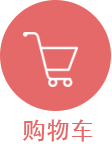
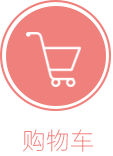
dd

Changed region(s): [[0.0, 0.0, 0.9911, 0.7778], [0.1875, 0.1944, 0.7232, 0.6111], [0.1875, 0.8056, 0.8304, 1.0]]

diff --git a/puuman2/ViewAndController/Shop/ShopSortSectionView.m b/puuman2/ViewAndController/Shop/ShopSortSectionView.m
@@ -24,17 +24,17 @@
 - (void)initialization
 {
     priceBtn = [[AFSelecedTextImgButton alloc] initWithFrame:CGRectMake(0, 0, 64, 96)];
-    [priceBtn setSelectedImg:[UIImage imageNamed:@"btn_rec1_shop"] andUnselectedImg:[UIImage imageNamed:@"btn_rec2_shop"]];
+    [priceBtn setSelectedImg:[UIImage imageNamed:@"btn_price_shop1.png"] andUnselectedImg:[UIImage imageNamed:@"btn_price_shop.png"]];
     [priceBtn addTarget:self action:@selector(priceBtnPressed) forControlEvents:UIControlEventTouchUpInside];
     [self addSubview:priceBtn];
     
     heatBtn = [[AFSelecedTextImgButton alloc] initWithFrame:CGRectMake(0, 96, 64, 96)];
-    [heatBtn setSelectedImg:[UIImage imageNamed:@"btn_all1_shop.png"] andUnselectedImg:[UIImage imageNamed:@"btn_all2_shop.png"]];
+    [heatBtn setSelectedImg:[UIImage imageNamed:@"btn_heat_shop1.png"] andUnselectedImg:[UIImage imageNamed:@"btn_heat_shop.png"]];
     [heatBtn addTarget:self action:@selector(heatBtnPressed) forControlEvents:UIControlEventTouchUpInside];
     [self addSubview:heatBtn];
     
     timeBtn = [[AFSelecedTextImgButton alloc] initWithFrame:CGRectMake(0, 96*2, 64, 96)];
-    [timeBtn setSelectedImg:[UIImage imageNamed:@"btn_rec1_shop"] andUnselectedImg:[UIImage imageNamed:@"btn_rec2_shop"]];
+    [timeBtn setSelectedImg:[UIImage imageNamed:@"btn_time_shop1.png"] andUnselectedImg:[UIImage imageNamed:@"btn_time_shop.png"]];
     [timeBtn addTarget:self action:@selector(timeBtnPressed) forControlEvents:UIControlEventTouchUpInside];
     [self addSubview:timeBtn];
     [self priceBtnPressed];

diff --git a/puuman2/ViewAndController/Shop/ShopViewController.m b/puuman2/ViewAndController/Shop/ShopViewController.m
@@ -126,7 +126,7 @@ static ShopViewController * instance;
     
     contentShop = [[ShopContentView alloc] initWithFrame:CGRectMake(80, 80, 0, 0)];
     [self.view addSubview:contentShop];
-    cartBtn  = [[UIButton alloc] initWithFrame:CGRectMake(0, 0, 56, 72)];
+    cartBtn  = [[UIButton alloc] initWithFrame:CGRectMake(0, 0, 56, 78)];
     [cartBtn setImage:[UIImage imageNamed:@"btn_cart_shop.png"] forState:UIControlStateNormal];
     [cartBtn addTarget:self action:@selector(showCart) forControlEvents:UIControlEventTouchUpInside];
     [self.view addSubview:cartBtn];
@@ -154,7 +154,7 @@ static ShopViewController * instance;
     [bg_topImageView setImage:[UIImage imageNamed:@"paper_top_shop.png"]];
     [bg_rightImageView setFrame:CGRectMake(688, 80, 64, 944)];
     [bg_rightImageView setImage:[UIImage imageNamed:@"paper_right_shop.png"]];
-    SetViewLeftUp(sectionView, 688, 80);
+    SetViewLeftUp(sectionView, 688, 100);
     SetViewLeftUp(searchBtn, 464, 28);
     SetViewLeftUp(searchView, 288, 28);
     SetViewLeftUp(cartBtn, 680, 678);
@@ -171,7 +171,7 @@ static ShopViewController * instance;
     [bg_rightImageView setFrame:CGRectMake(944, 80, 64, 688)];
     [bg_rightImageView setImage:[UIImage imageNamed:@"paper_right_h_shop.png"]];
   
-    SetViewLeftUp(sectionView, 944, 80);
+    SetViewLeftUp(sectionView, 944, 100);
 
     SetViewLeftUp(searchBtn, 592, 28);
     SetViewLeftUp(searchView, 416, 28);

diff --git a/puuman2/ViewAndController/MainTabBar/BabyInfo/BabyView.m b/puuman2/ViewAndController/MainTabBar/BabyInfo/BabyView.m
@@ -63,7 +63,7 @@
     [info_sexIcon setBackgroundColor:[UIColor clearColor]];
     [titleInfoView addSubview:info_sexIcon];
     
-    info_name = [[UILabel alloc] initWithFrame:CGRectMake(256, 58, 65, 25)];
+    info_name = [[UILabel alloc] initWithFrame:CGRectMake(256, 58, 144, 25)];
     [info_name setTextAlignment:NSTextAlignmentLeft];
     [info_name setTextColor:PMColor6];
     [info_name setFont:PMFont1];
@@ -71,7 +71,7 @@
     [info_name setBackgroundColor:[UIColor clearColor]];
     [titleInfoView addSubview:info_name];
     
-    info_age= [[UILabel alloc] initWithFrame:CGRectMake(325, 64, 110, 21)];
+    info_age= [[UILabel alloc] initWithFrame:CGRectMake(405, 64, 110, 21)];
     [info_age setTextAlignment:NSTextAlignmentLeft];
     [info_age setTextColor:PMColor1];
     [info_age setFont:PMFont2];
@@ -79,7 +79,7 @@
     [info_age setBackgroundColor:[UIColor clearColor]];
     [titleInfoView addSubview:info_age];
     if ([[[UserInfo sharedUserInfo] babyInfo] WhetherBirth]) {
-        info_birthday = [[UILabel alloc] initWithFrame:CGRectMake(436, 64, 200, 21)];
+        info_birthday = [[UILabel alloc] initWithFrame:CGRectMake(520, 64, 130, 21)];
         [info_birthday setTextAlignment:NSTextAlignmentLeft];
         [info_birthday setTextColor:PMColor3];
         [info_birthday setFont:PMFont2];

diff --git a/puuman2/ViewAndController/MainTabBar/MainTabBarController.m b/puuman2/ViewAndController/MainTabBar/MainTabBarController.m
@@ -374,7 +374,7 @@ static MBProgressHUD *hud;
     }
     
     if (babyShowBtn) {
-        SetViewLeftUp(babyShowBtn,768 -16 - 56, 1024);
+        SetViewLeftUp(babyShowBtn,768 -16 - 80, 1024);
         
     }
     
@@ -410,7 +410,7 @@ static MBProgressHUD *hud;
     }
     
     if (babyShowBtn) {
-        SetViewLeftUp(babyShowBtn,1024 -16 - 56, 768);
+        SetViewLeftUp(babyShowBtn,1024 -16 - 80, 768);
     }
 }
 
@@ -611,14 +611,14 @@ static MBProgressHUD *hud;
     [self.view addSubview:infoView];
     [infoView.layer setMasksToBounds:NO];
     if (!babyShowBtn) {
-        babyShowBtn = [[BabyShowButton alloc] initWithFrame:CGRectMake(1024 -16 - 56, 768, 56, 56)];
+        babyShowBtn = [[BabyShowButton alloc] initWithFrame:CGRectMake(1024 -16 - 80, 768, 80, 100)];
         [babyShowBtn setBackgroundColor:[UIColor clearColor]];
     }
     [infoView addSubview:babyShowBtn];
     
     [babyShowBtn loadPortrait];
     if (!babyInfoBtn) {
-        babyInfoBtn = [[UIButton alloc ]initWithFrame:CGRectMake(1024 -16 - 56, 0, 56, 56)];
+        babyInfoBtn = [[UIButton alloc ]initWithFrame:CGRectMake(1024 -16 - 80, 0, 80, 100)];
         [babyInfoBtn addTarget:self action:@selector(showBabyView) forControlEvents:UIControlEventTouchUpInside];
         [self.view addSubview:babyInfoBtn];
     }

diff --git a/puuman2/ViewAndController/MainTabBar/BabyInfo/BabyInfoPropViewCell.m b/puuman2/ViewAndController/MainTabBar/BabyInfo/BabyInfoPropViewCell.m
@@ -149,7 +149,7 @@
 {
     //[super setVerticalFrame];
    [leftView setFrame:CGRectMake(0, 96, 768, 928)];
-    [leftBtn setFrame:CGRectMake(0, 0, 47, 928)];
+    [leftBtn setFrame:CGRectMake(0, 0, 48, 928)];
     [babyPropView setFrame:CGRectMake(130, 280, 544, 448)];
     // [showAndHiddenBtn setAlpha:1];
     
@@ -158,10 +158,10 @@
 -(void)setHorizontalFrame
 {
    // [super setHorizontalFrame];
-    [leftView setFrame:CGRectMake(0, 96, 807, 672)];
-    [rightView setFrame:CGRectMake(807,96,217, 672)];
+    [leftView setFrame:CGRectMake(0, 96, 808, 672)];
+    [rightView setFrame:CGRectMake(808,96,216, 672)];
     [babyPropView setFrame:CGRectMake(130, 140, 544, 448)];
-    [leftBtn setFrame:CGRectMake(0, 0, 47, 672)];
+    [leftBtn setFrame:CGRectMake(0, 0, 48, 672)];
     [estiTextField setFrame:CGRectMake(ViewWidth(rightView)-216, 0, 216, 50)];
     [estiView setFrame:CGRectMake(ViewWidth(rightView)-216, 50, 216,70)];
     [estiTableView setFrame:CGRectMake(ViewWidth(rightView)-216, 120, 216, ViewHeight(rightView)-120)];

diff --git a/puuman2/ViewAndController/MainTabBar/BabyInfo/BabyInfoBodyViewCell.m b/puuman2/ViewAndController/MainTabBar/BabyInfo/BabyInfoBodyViewCell.m
@@ -14,9 +14,11 @@
 #import "AddBodyDataViewController.h"
 #import "MainTabBarController.h"
 #import "ColorsAndFonts.h"
+#import "DiaryFileManager.h"
 
 @implementation BabyInfoBodyViewCell
 @synthesize delegate = _delegate;
+@synthesize filePath = _filePath;
 
 - (id)initWithStyle:(UITableViewCellStyle)style reuseIdentifier:(NSString *)reuseIdentifier
 {
@@ -141,7 +143,21 @@
 - (void)shareData
 {
 
-  
+    ShareSelectedViewController *shareVC = [[ShareSelectedViewController alloc] initWithNibName:nil bundle:nil];
+    [self addSubview:shareVC.view];
+    [shareVC setShareText:[[UserInfo sharedUserInfo] babyInfo].PortraitUrl];
+    [shareVC setShareTitle:@"我想要分享链接"];
+    [shareVC setShareImg:[DiaryFileManager imageForVideo:_filePath]];
+    [shareVC setStyle:ConfirmError];
+    //shareVC.delegate = self;
+     shareVC.shareDelegate = self;
+    [shareVC show];
+
+}
+
+-(void)selectedShareType:(SocialType)type
+{
+    shareType = type;
 
 }
 

diff --git a/puuman2/ViewAndController/MainTabBar/support/BabyShowButton.m b/puuman2/ViewAndController/MainTabBar/support/BabyShowButton.m
@@ -26,14 +26,14 @@
 - (void)initialization
 {
     status = PuumanAnimateNone;
-    bg_babybutton = [[UIImageView alloc ]initWithFrame:CGRectMake(0, 0, 56, 56)];
-    [bg_babybutton setImage:[UIImage imageNamed:@"babyInfo_btn.png"] ];
+    bg_babybutton = [[UIImageView alloc ]initWithFrame:CGRectMake(0, 0, 80, 100)];
+    [bg_babybutton setImage:[UIImage imageNamed:@"icon_babyInfo_btn.png"] ];
     [self addSubview:bg_babybutton];
     
-    portraitView =[[AFImageView alloc] initWithFrame:CGRectMake(8, 8, 40, 40)];
+    portraitView =[[AFImageView alloc] initWithFrame:CGRectMake(8, 28, 64, 64)];
     [portraitView setContentMode:UIViewContentModeScaleAspectFill];
     [portraitView setBackgroundColor:[UIColor clearColor]];
-    portraitView.layer.cornerRadius = 20;
+    portraitView.layer.cornerRadius = 32.5f;
     portraitView.layer.masksToBounds = YES;
     portraitView.layer.shadowRadius =0.1;
     [self addSubview:portraitView];

diff --git a/puuman2/ViewAndController/MainTabBar/BabyInfo/BabyInfoBodyViewCell.h b/puuman2/ViewAndController/MainTabBar/BabyInfo/BabyInfoBodyViewCell.h
@@ -10,8 +10,9 @@
 #import "ColorButton.h"
 #import "BabyInfoIconViewDelegate.h"
 #import "BabyInfoPageControlButton.h"
+#import "ShareSelectedViewController.h"
 
-@interface BabyInfoBodyViewCell : UITableViewCell<UITableViewDelegate,UITableViewDataSource,BabyInfoIconViewDelegate>
+@interface BabyInfoBodyViewCell : UITableViewCell<UITableViewDelegate,UITableViewDataSource,BabyInfoIconViewDelegate,ShareViewDelegate>
 
 {
     UITableView *dataTable;
@@ -24,10 +25,12 @@
     UIView  *rightView;
     BabyInfoPageControlButton *showAndHiddenBtn;
     UIButton *rightBtn;
+    SocialType shareType;
     
 }
 
 @property (nonatomic,assign) id<BabyInfoIconViewDelegate>delegate;
+@property (nonatomic,retain) NSString *filePath;
 
 - (void)refresh;
 

diff --git a/puuman2/ViewAndController/MainTabBar/BabyInfo/BabyInfoPregnancyViewCell.m b/puuman2/ViewAndController/MainTabBar/BabyInfo/BabyInfoPregnancyViewCell.m
@@ -80,12 +80,6 @@
     [propBtn addTarget:self action:@selector(propBtn) forControlEvents:UIControlEventTouchUpInside];
     [clearInfoView addSubview:propBtn];
     
-  
-    
-//    UIImageView *bgImageView = [[UIImageView alloc] initWithFrame:CGRectMake(95,0, 480, 540)];
-//    [bgImageView setImage:[UIImage imageNamed:@"bg_pregnancy_image_babyInfo.png"]];
-//    [picView addSubview:bgImageView];
-    
     grayLineRight = [[UIImageView alloc] init];
     [grayLineRight  setImage:[UIImage imageNamed:@"grayline_right_babyInfo.png"]];
     [clearInfoView addSubview:grayLineRight];

diff --git a/puuman2/ViewAndController/MainTabBar/BabyInfo/BabyInfoBornViewCell.m b/puuman2/ViewAndController/MainTabBar/BabyInfo/BabyInfoBornViewCell.m
@@ -148,7 +148,7 @@
     [weightBtn setFrame:CGRectMake(30, 520, 80, 68)];
     [vaciBtn setFrame:CGRectMake(565, 280, 180, 100)];
     [propBtn setFrame:CGRectMake(565, 520, 180, 80)];
-    [addRecordBtn setFrame:CGRectMake(150, 450, 32, 32)];
+    [addRecordBtn setFrame:CGRectMake(160, 450, 32, 32)];
     [nextNaciView setFrame:CGRectMake(744, 320, 10, 16)];
     [nextPropView setFrame:CGRectMake(744, 547, 10, 16)];
     [preView setFrame:CGRectMake(5, 500, 10, 16)];

diff --git a/puuman2/ViewAndController/Shop/ShopCartViewController.m b/puuman2/ViewAndController/Shop/ShopCartViewController.m
@@ -242,7 +242,7 @@
     [self setTitle:@"我的订单" withIcon:nil];
     [orderShowBtn selected];
     [cartShowBtn unSelected];
-    [cartTable reloadData];
+    [orderTable reloadData];
     [UIView animateWithDuration:0.2 animations:^{
         [orderBtn setAlpha:0];
         [cartTable setAlpha:0];
